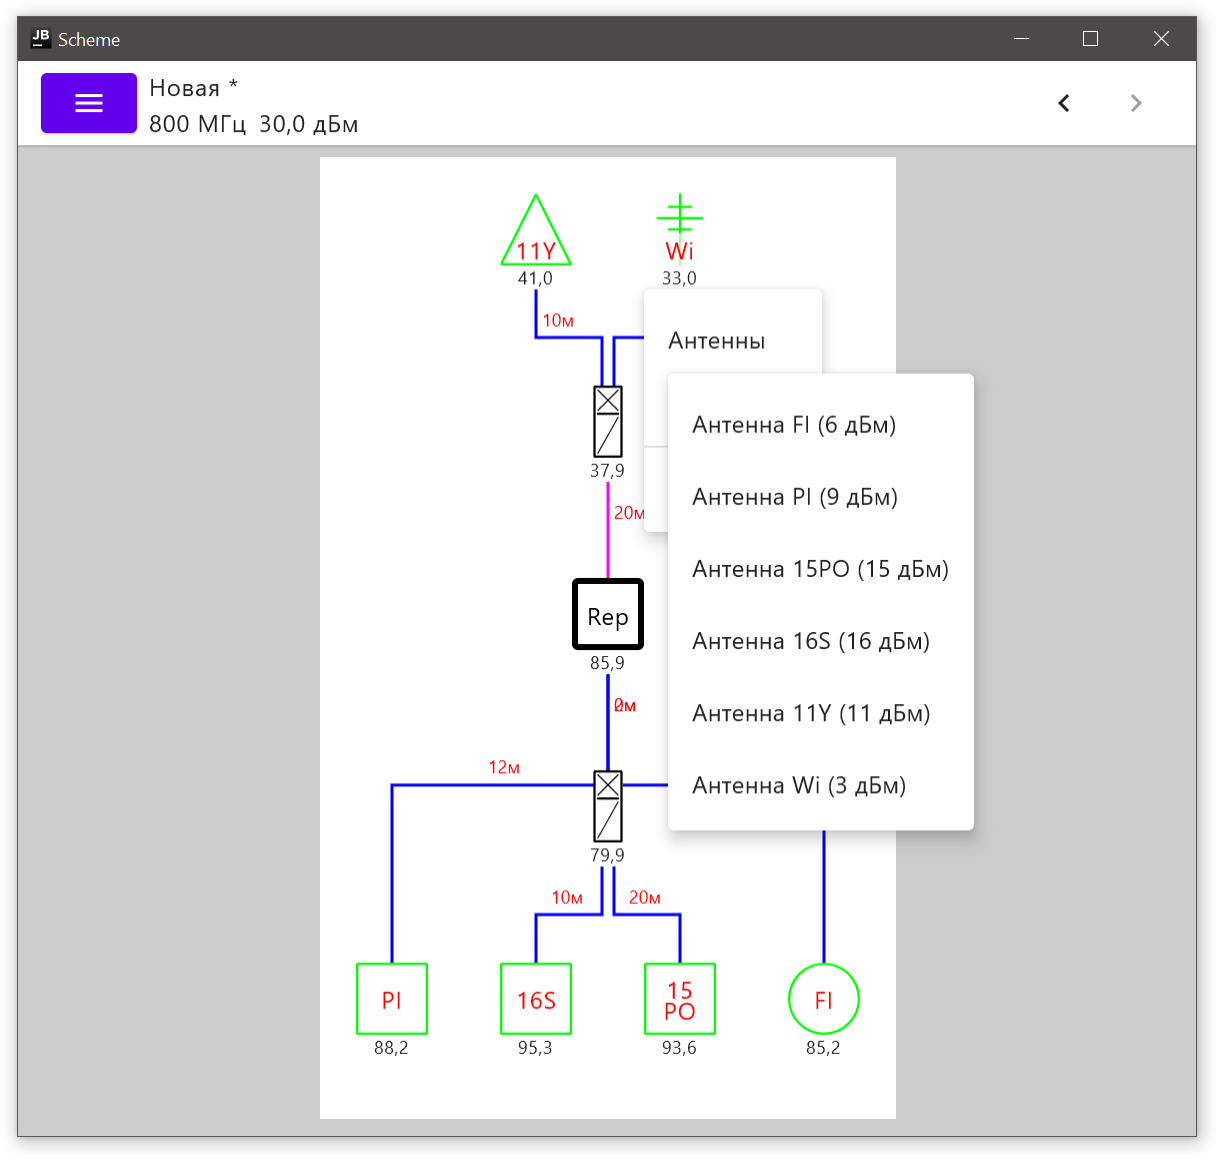
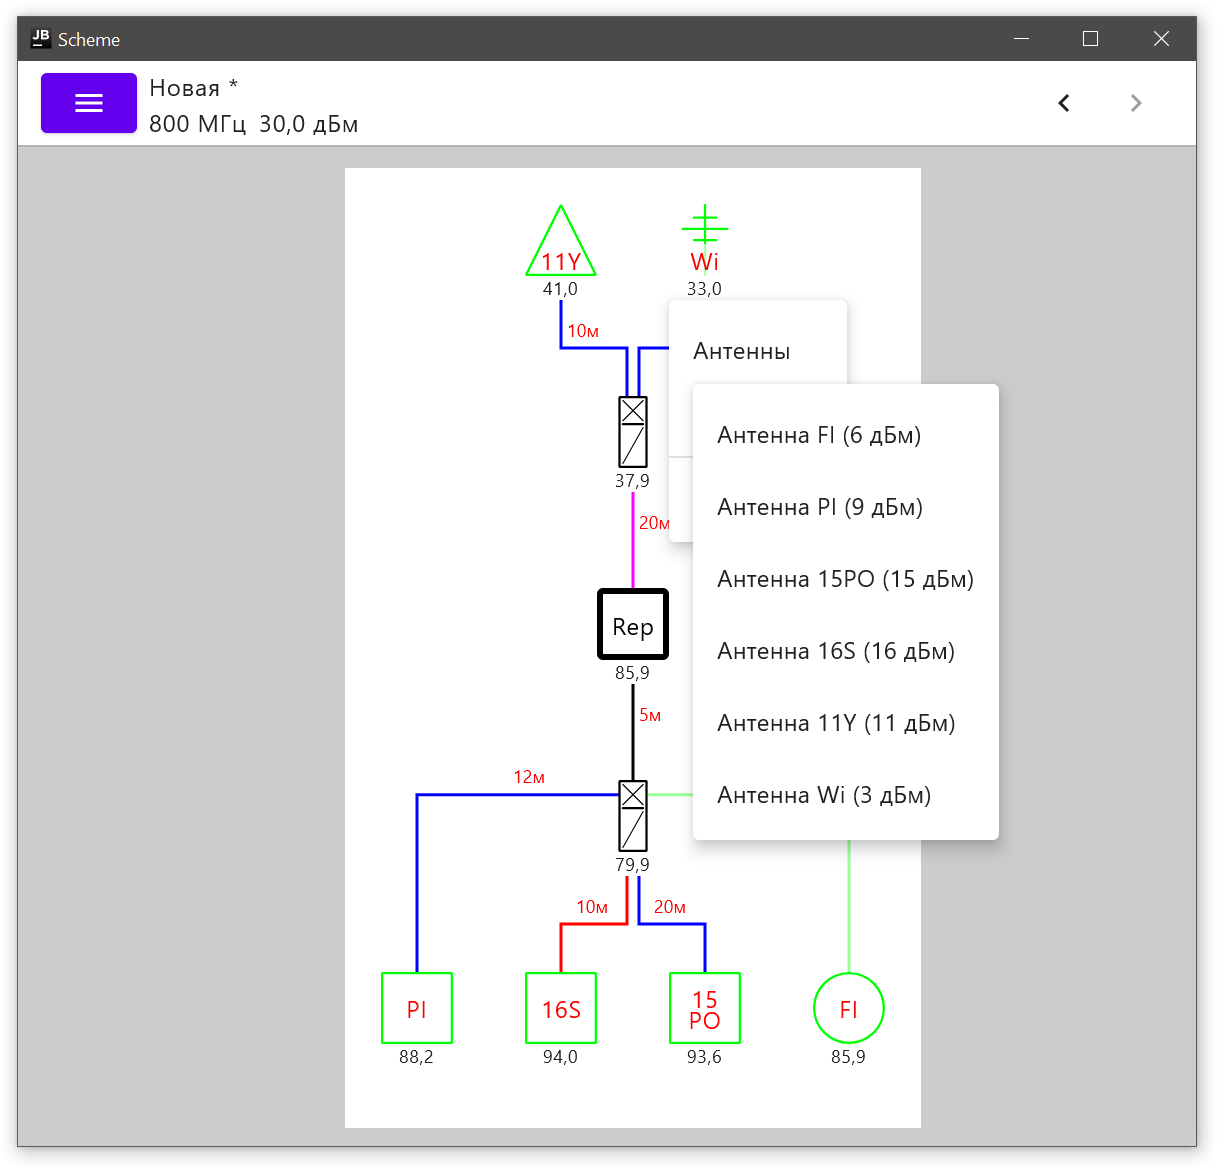
Обновил скриншоты

Changed region(s): [[0.2184, 0.0932, 0.8424, 0.9629], [0.0312, 0.0311, 0.0936, 0.1242], [0.1248, 0.0621, 0.1872, 0.1242]]

diff --git a/composeApp/src/commonMain/kotlin/com/vegatel/scheme/ui/components/SchemeConstructor.kt b/composeApp/src/commonMain/kotlin/com/vegatel/scheme/ui/components/SchemeConstructor.kt
@@ -1110,10 +1110,10 @@ fun SchemeConstructor(
                     }
                 }
 
-                // Рисуем кабель
-                val cable = element?.fetchCable()
+                // Рисуем кабель (кроме репитера)
+                if (element != null && element !is Repeater) {
+                    val cable = element.fetchCable()
 
-                if (cable != null) {
                     val isElementBelowRepeater = elements.isElementBelowRepeater(element.id)
 
                     // Получаем координаты первого и второго элемента по id
